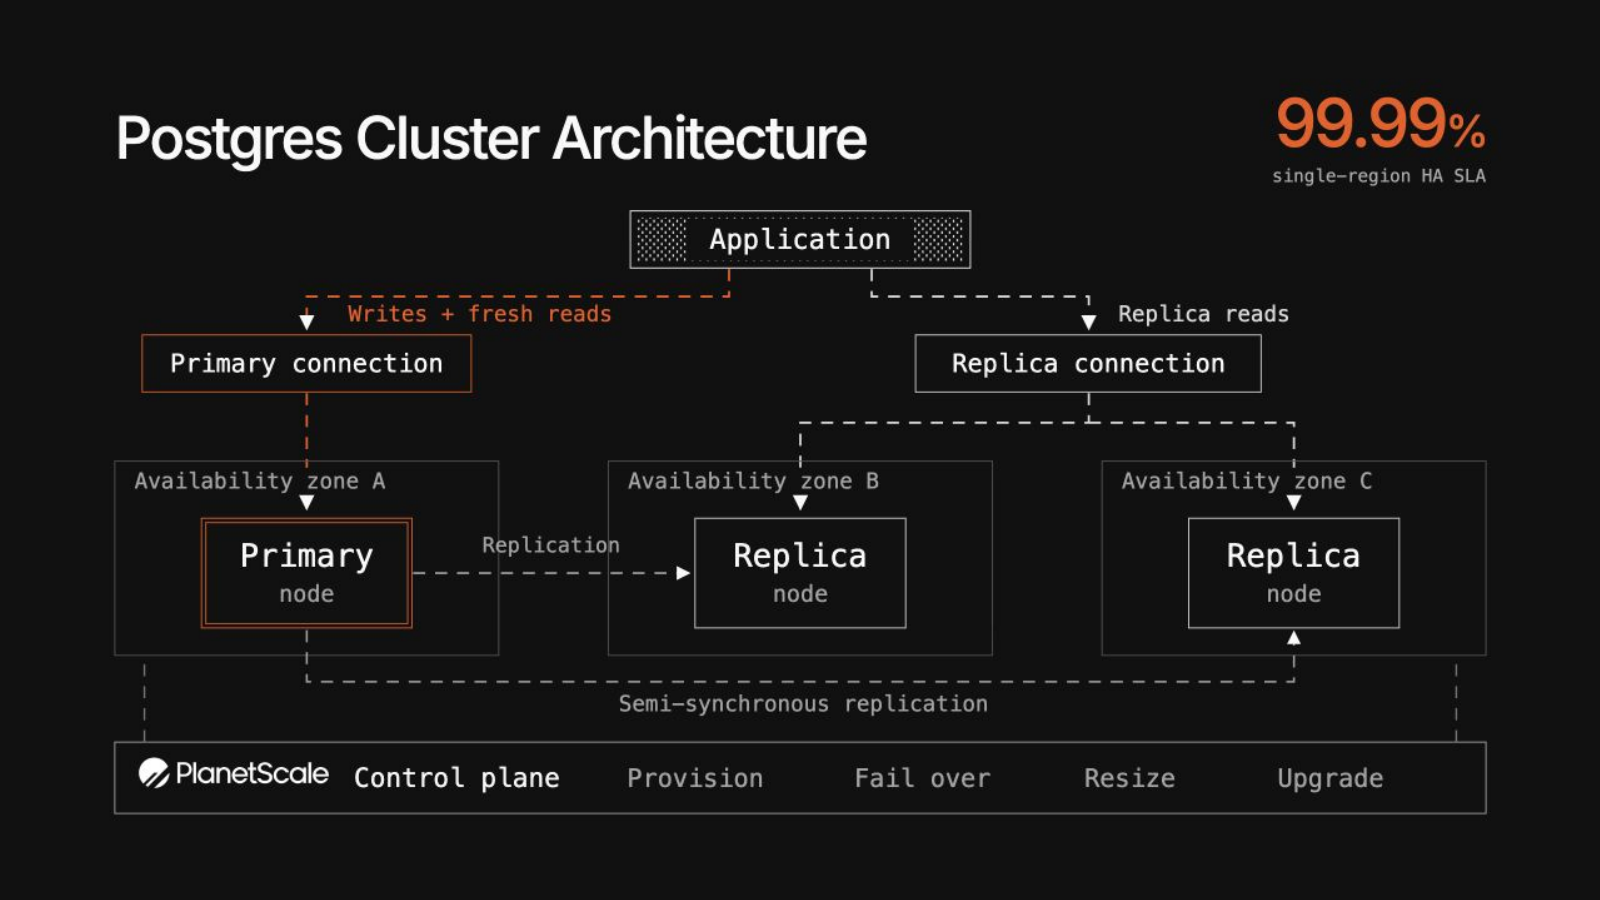
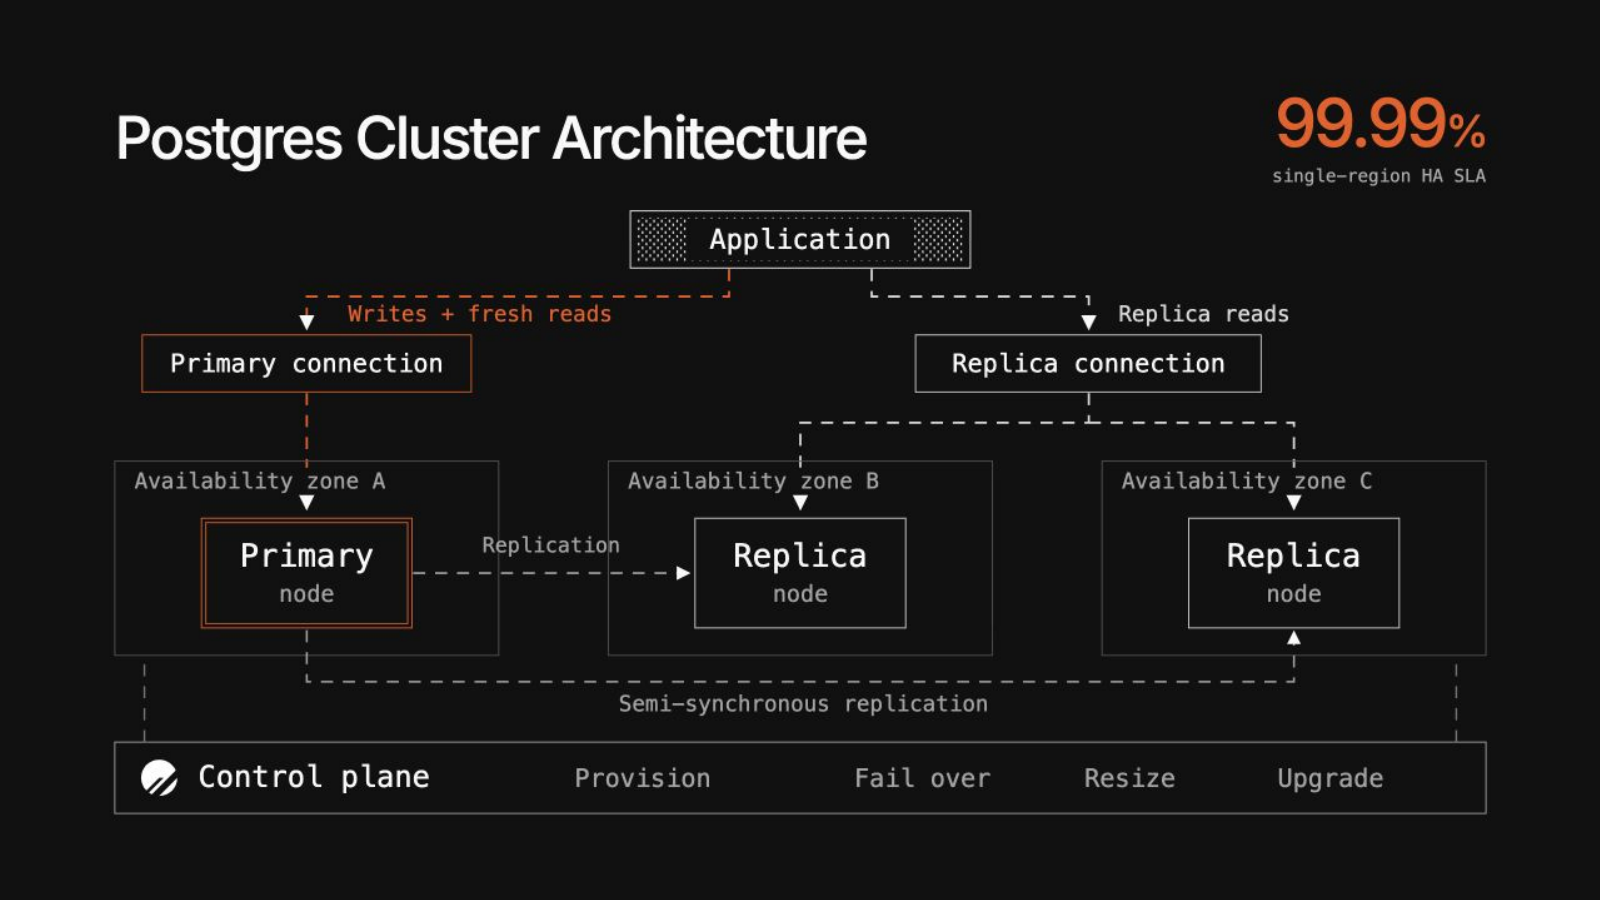
Use PlanetScale symbol without wordmark in control plane

Changed region(s): [[0.0625, 0.84, 0.4688, 0.9022]]

diff --git a/build_content.py b/build_content.py
@@ -59,9 +59,9 @@ for x,label,role,color in [(0,'Availability zone A','Primary',ORANGE),(450,'Avai
 b+=path('M272 330H524',GRAY,1.8,True,arrow='ha-arrow')+txt(398,311,'Replication',19,GRAY,'middle')
 b+=path('M175 382V429H1075V383',GRAY,1.8,True,arrow='ha-arrow')+txt(628,456,'Semi-synchronous replication',20,GRAY,'middle')
 b+=rect(0,484,1250,65,INK,'#aaaaaa')
-b+='<image href="assets/planetscale-white.png" x="22" y="498" width="173" height="28"/>'
-b+=txt(218,525,'Control plane',24,WHITE,weight=500)
-b+=txt(467,525,'Provision',23,GRAY)+txt(674,525,'Fail over',23,GRAY)+txt(884,525,'Resize',23,GRAY)+txt(1060,525,'Upgrade',23,GRAY)
+b+='<svg x="24" y="500" width="33" height="33" viewBox="0 0 454 454" aria-label="PlanetScale"><g fill="#fff"><path d="m0 227c.00001067-125.369 101.631-227.00001067 227-227 92.178.00000806 171.524 54.9423 207.076 133.865l-300.211 300.211c-12.882-5.803-25.126-12.774-36.5966-20.776l186.2996-186.3h-56.568l-160.5132 160.513c-41.0789-41.079-66.48680548-97.829-66.4868-160.513z"/><path d="m454 227.078-226.922 226.922c125.307-.042 226.88-101.615 226.922-226.922z"/></g></svg>'
+b+=txt(76,525,'Control plane',27,WHITE,weight=500)
+b+=txt(419,525,'Provision',23,GRAY)+txt(674,525,'Fail over',23,GRAY)+txt(884,525,'Resize',23,GRAY)+txt(1060,525,'Upgrade',23,GRAY)
 for x in (27,1223):b+=path(f'M{x} 484V406','#777777',1.5,True)
 ha=svg(1250,553,b,'One highly available Postgres cluster in a single region, containing three database nodes. Each availability zone contains one node: a primary in zone A and replicas in zones B and C. Application connections select the primary or replicas. Semi-synchronous replication connects the nodes. The separate control plane manages provisioning, failover, resizing, and upgrades.',mark='ha-arrow')
 
